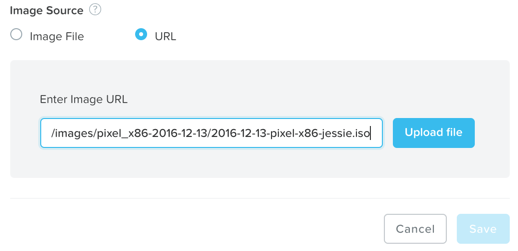
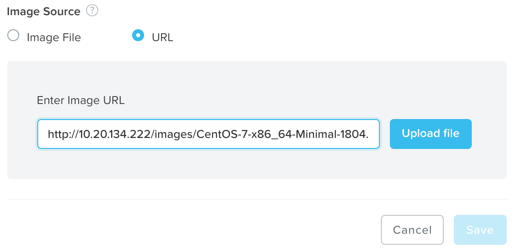
ESX and Updated Images

diff --git a/lab_deploy_workloads/lab_deploy_workloads.rst b/lab_deploy_workloads/lab_deploy_workloads.rst
@@ -34,6 +34,20 @@ Next, fill out the following fields and click **Save**:
 
 .. figure:: images/deploy_workloads_02.png
 
+Now we will upload Windows 2012 ISO to use for deploying VMs.
+
+Next click **Add Image**, and click **URL**.
+
+Fill out the following fields and click **Upload File**:
+
+- **Enter Image URL** - http://10.20.134.222/images/server_2012_r2_vl_x64_dvd_3319595.iso
+
+Next, fill out the following fields and click **Save**:
+
+- **Image Name** - Windows2012-*intials*
+- **Image Type** - ISO
+- **Image Description** - (Optional) Add a description
+
 .. note::
 
   Image management in Prism Central allows you to upload images that can be used to deploy workloads in any of the clusters registered to that Prism Central instance.
@@ -57,18 +71,23 @@ Fill out the following fields and click **Save**:
 
 .. figure:: images/deploy_workloads_03.png
 
-- Select **+ Add New Disk**
-- **Type** - DISK
-- **Operation** - Clone from Image Service
-- **Image** - CentOS7-*intials* (The Image we added above)
-- **Storage Container** - Default Container
-- Select **Add**
+- Select :fa:`pencil` next to CDROM
+    - **Operation** - Clone from Image Service
+    - **Image** - CentOS7-*intials* (The Image we added above)
+    - Select **Update**
 
 .. figure:: images/deploy_workloads_04.png
 
+- Select **+ Add New Disk**
+    - **Type** - DISK
+    - **Operation** - Allocate on Storage Container
+    - **Storage Container** - Default Container
+    - **Size (GiB)** - 30 GiB
+    - Select **Add**
+
 - Select **Add New NIC**
-- **VLAN Name** - Primary
-- Select **Add**
+    - **VLAN Name** - Primary
+    - Select **Add**
 
 Click **Save** to create the VM.
 
@@ -91,26 +110,26 @@ Fill out the following fields and click **Save**:
 - **Number of Cores per vCPU** - 1
 - **Memory** - 4 GiB
 - Select :fa:`pencil` next to CDROM
-- **Operation** - Clone from Image Service
-- **Image** - Windows VM ISO
-- Select **Update**
+    - **Operation** - Clone from Image Service
+    - **Image** - Windows2012-*intials*
+    - Select **Update**
 
 - Select **+ Add New Disk**
-- **Type** - DISK
-- **Operation** - Allocate on Storage Container
-- **Storage Container** - Default Container
-- **Size (GiB)** - 30 GiB
-- Select **Add**
+    - **Type** - DISK
+    - **Operation** - Allocate on Storage Container
+    - **Storage Container** - Default Container
+    - **Size (GiB)** - 30 GiB
+    - Select **Add**
 
 - Select **+ Add New Disk**
-- **Type** - CDROM
-- **Operation** - Clone from Image Service
-- **Image** - Nutanix VirtIO
-- Select **Add**
+    - **Type** - CDROM
+    - **Operation** - Clone from Image Service
+    - **Image** - Nutanix VirtIO
+    - Select **Add**
 
 - Select **Add New NIC**
-- **VLAN Name** - Primary
-- Select **Add**
+    - **VLAN Name** - Primary
+      - Select **Add**
 
 Click **Save** to create the VM.
 
@@ -145,6 +164,14 @@ Click Next.
 After the drivers are loaded, the disk created in step 1 appears as an installation target. Select that disk and continue with the normal install process.
 
 After the installation completes, the Windows install ISO can be unmounted and the additional CD-ROM used for the drivers can be removed from the VM.
+
+.. note::
+
+  In ESX:
+
+  - After a VM is created via Prism, it appears in the VMware vSphere UI. An example is shown in the image below.
+  - Alternatively, if a VM is created via VMware vSphere, it appears in the Prism VMs list.
+
 
 Takeaways
 +++++++++

diff --git a/lab_manage_workloads/lab_manage_workloads.rst b/lab_manage_workloads/lab_manage_workloads.rst
@@ -48,6 +48,14 @@ Select the VM, then click **Launch Console** from the **Actions** drop-down menu
 
 .. figure:: images/manage_workloads_01.png
 
+.. note::
+
+  In ESX:
+
+  - The steps in this exercise could also be done from Prism while using an ESXi cluster which VMware vCenter instance is registered to Prism. The image below shows what the Actions drop down menu would look like for a VM hosted in ESXi VM versus one hosted in AHV side by side for comparison.
+
+  .. figure:: images/manage_workloads_06.png
+
 Prism Search
 ............
 
@@ -150,6 +158,13 @@ Either select a host manually or allow AHV to select it, then click **Migrate**.
 You should see that the VM has moved to the other host.
 
 .. figure:: images/manage_workloads_05.png
+
+High Availability
+.................
+
+High availability is enabled by default for AHV and will restart VMs in a best-effort manner in the event of a host failure. Additional configuration can set resource reservations to ensure there is capacity during an HA event.
+
+VMware HA works by providing high availability for virtual machines by pooling the virtual machines and the hosts they reside on into a cluster. The hosts in that cluster are then monitored and in case there is a failure, the VMs residing on the failed host would get restarted on alternate hosts. This feature must be turned on in vSphere, as opposed to AHV where it’s on by default without reservation.
 
 Takeaways
 +++++++++

diff --git a/lab_nutanix_tech_overview/lab_nutanix_tech_overview.rst b/lab_nutanix_tech_overview/lab_nutanix_tech_overview.rst
@@ -75,6 +75,12 @@ What page would show you the latest activity in the system? On this page, you ca
 
 First Way, In **Prism Central > Home**, click **View All Tasks**. Second Way, click :fa:`circle-o`
 
+.. note::
+
+  - vCenter Server instances can be registered to Prism via Prism's :fa:`cog` icon.
+  - Registering a Nutanix Cluster running ESXi with vCenter allows to perform core VM management operations directly from Prism without switching to vCenter Server.
+  - The vCenter Server that is managing the hosts in the cluster is auto-discovered and its IP address is auto-populated in the Address field as shown in the example below.
+
 Prism Element
 +++++++++++++
 
@@ -170,6 +176,18 @@ What page would show you the latest activity in the system? On this page, you ca
 .. figure:: images/nutanix_tech_overview_09.png
 
 First Way, In **Prism > Tasks**, click **Tasks**. Second Way, click :fa:`circle-o`.
+
+.. note::
+
+  - The containers created in Prism appear as datastores in vCenter.
+
+  Example view of storage containers from Prism:
+
+  .. figure:: images/nutanix_tech_overview_13.png
+
+  Example view of storage containers (datastores) from vCenter:
+
+  .. figure:: images/nutanix_tech_overview_14.png
 
 Takeaways
 +++++++++

diff --git a/backup_and_dr/backup_and_dr.rst b/backup_and_dr/backup_and_dr.rst
@@ -13,6 +13,7 @@ Nutanix Local Snapshots (Time Stream)
 .....................................
 
 Use Cases
+
 - Protection against Guest OS corruption
 - Snapshot VM environments
 - Self-Service File Level Restore
@@ -59,7 +60,7 @@ Points of differentiation
 - Multiple DR topologies
 - Multiple retention policies
 - WAN optimized replication
-- Rest API driven (customer DR runbooks)
+- Rest API driven(customer DR runbooks)
 - VM and application level consistency
 
 .. figure:: images/backup_and_dr_04.png
@@ -75,7 +76,7 @@ Use Cases
 Key Points
 
 - Easy to setup and manage
-- Interop with a-sync replication (3rd site)
+- Interop with a-sync replication(3rd site)
 - Witness Option
 - Rest API driven (customer DR runbooks)
 
